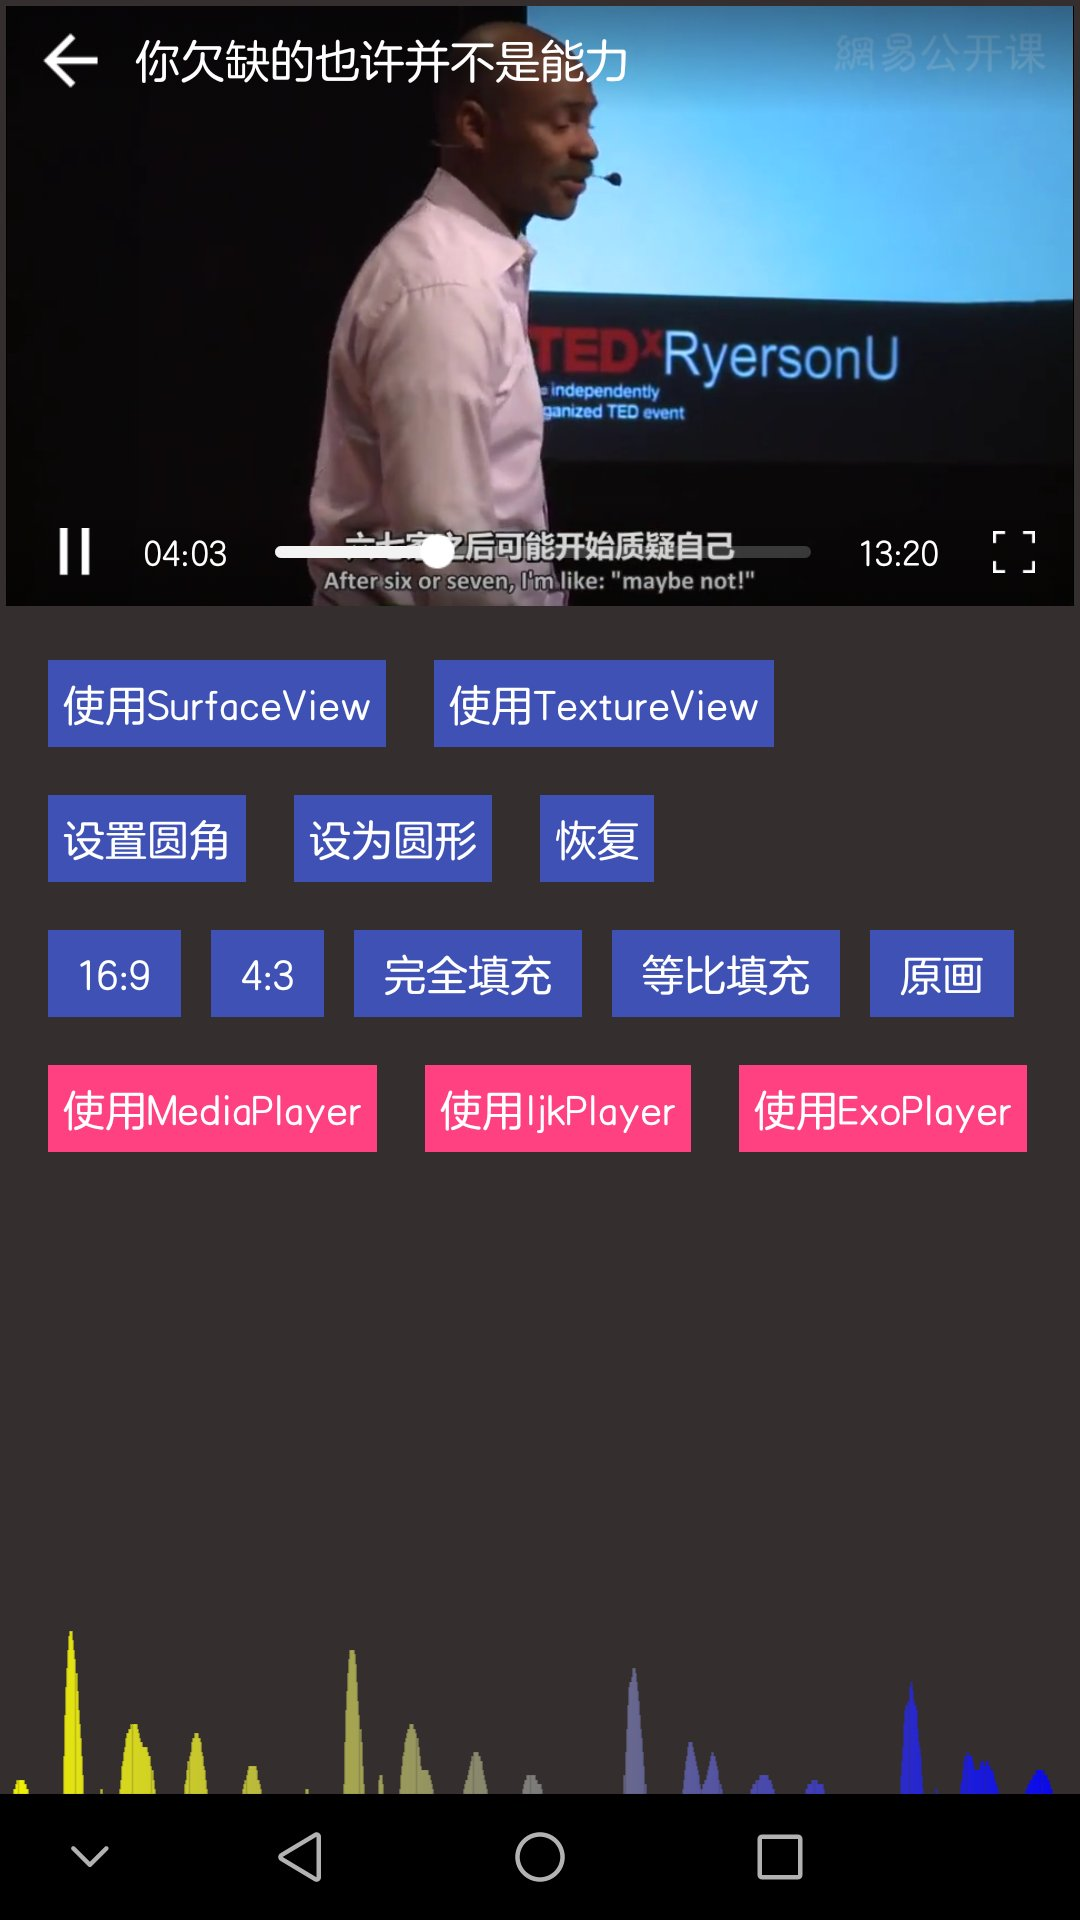
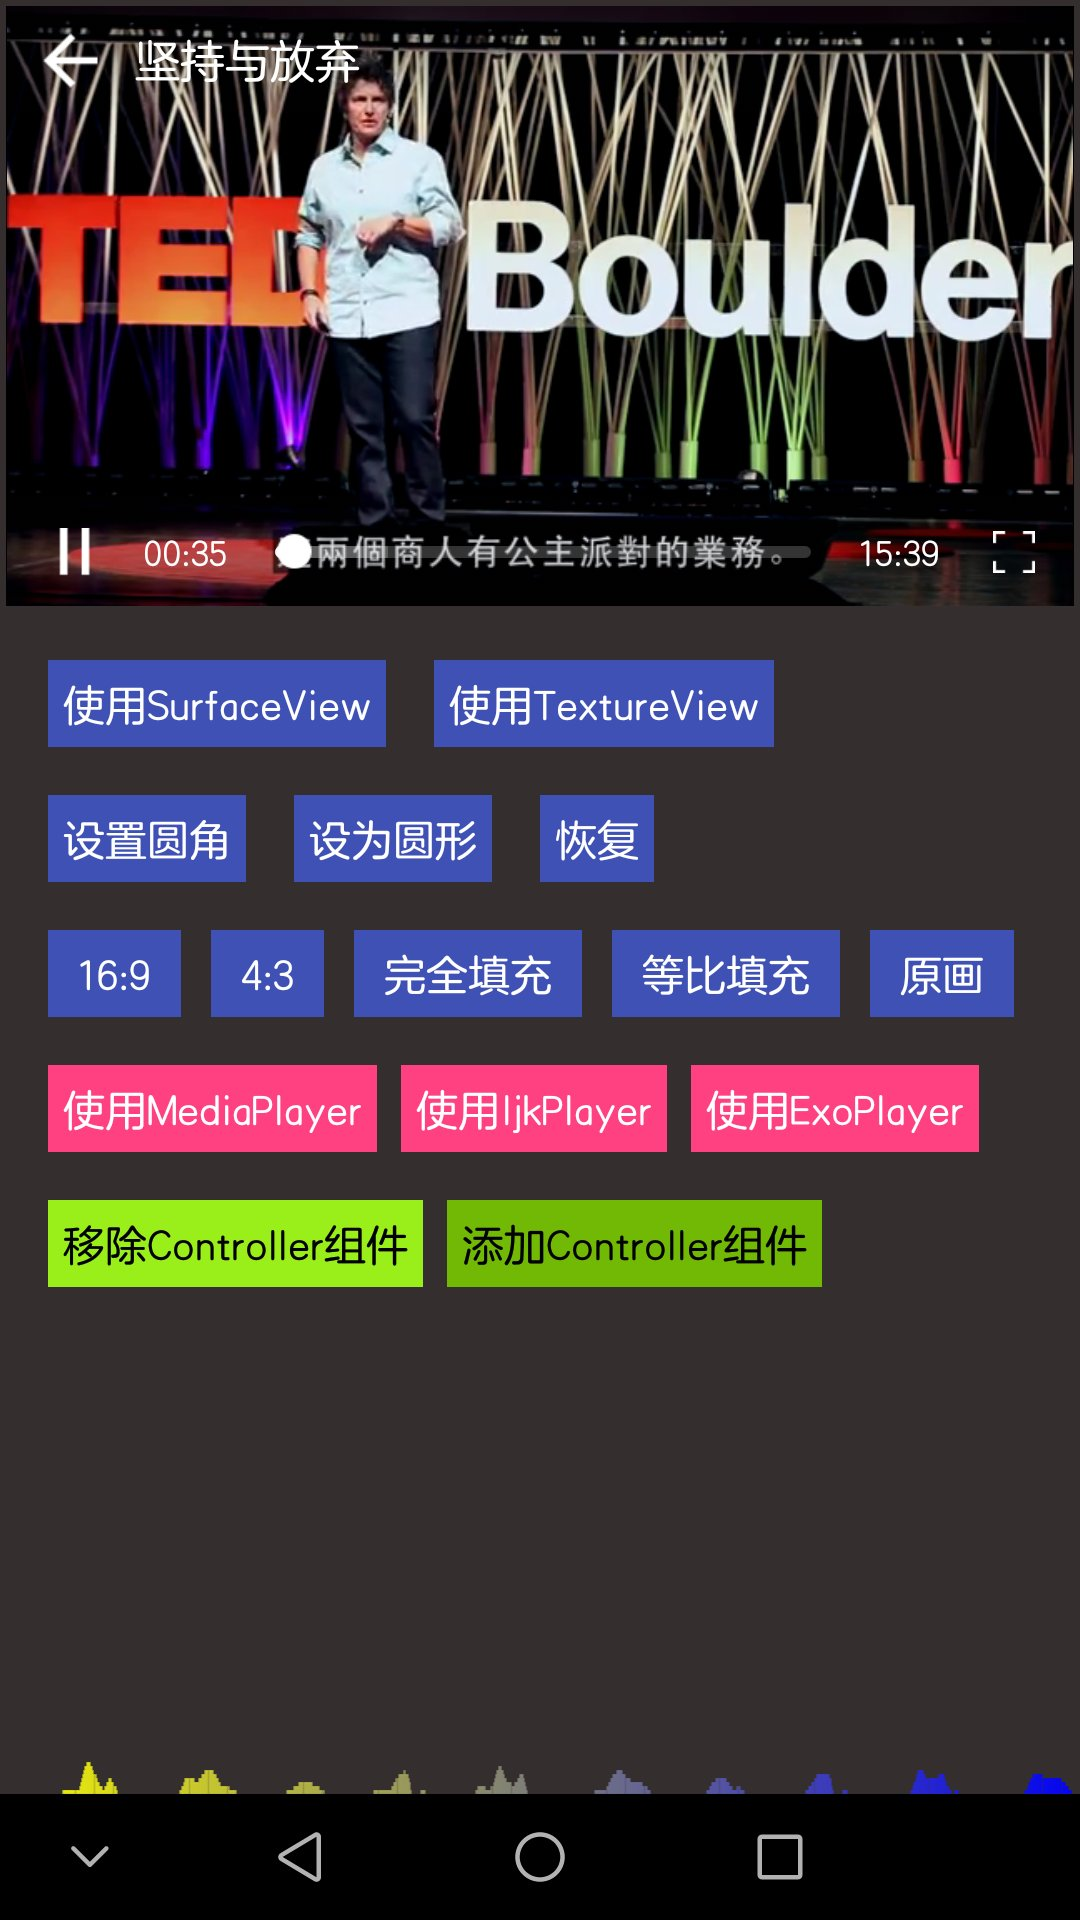
update demo
update demo

diff --git a/exoplayer/src/main/java/com/kk/taurus/exoplayer/ExoMediaPlayer.java b/exoplayer/src/main/java/com/kk/taurus/exoplayer/ExoMediaPlayer.java
@@ -66,10 +66,14 @@ public class ExoMediaPlayer extends BaseInternalPlayer {
 
     private int mVideoWidth, mVideoHeight;
 
+    private int mBufferPercentage;
+
     private int mStartPos = -1;
 
     private boolean isPreparing = true;
     private boolean isBuffering = false;
+    private boolean isPendingSeek = false;
+
     private final DefaultBandwidthMeter mBandwidthMeter;
 
     public ExoMediaPlayer(){
@@ -223,6 +227,9 @@ public class ExoMediaPlayer extends BaseInternalPlayer {
 
     @Override
     public void seekTo(int msc) {
+        if(isInPlaybackState()){
+            isPendingSeek = true;
+        }
         mInternalPlayer.seekTo(msc);
         Bundle bundle = BundlePool.obtain();
         bundle.putInt(EventKey.INT_DATA, msc);
@@ -252,6 +259,14 @@ public class ExoMediaPlayer extends BaseInternalPlayer {
         mInternalPlayer.release();
     }
 
+    private boolean isInPlaybackState(){
+        int state = getState();
+        return state!=STATE_END
+                && state!=STATE_ERROR
+                && state!=STATE_INITIALIZED
+                && state!=STATE_STOPPED;
+    }
+
     private SimpleExoPlayer.VideoListener mVideoListener = new SimpleExoPlayer.VideoListener() {
         @Override
         public void onVideoSizeChanged(int width, int height,
@@ -277,7 +292,7 @@ public class ExoMediaPlayer extends BaseInternalPlayer {
     private Player.EventListener mEventListener = new Player.EventListener() {
         @Override
         public void onTimelineChanged(Timeline timeline, Object manifest) {
-
+            PLog.d(TAG,"onTimelineChanged...");
         }
 
         @Override
@@ -287,11 +302,19 @@ public class ExoMediaPlayer extends BaseInternalPlayer {
 
         @Override
         public void onLoadingChanged(boolean isLoading) {
-            PLog.d(TAG,"onLoadingChanged : "+ isLoading);
+            mBufferPercentage = mInternalPlayer.getBufferedPercentage();
+            if(!isLoading){
+                Bundle bundle = BundlePool.obtain();
+                bundle.putInt(EventKey.INT_DATA, mBufferPercentage);
+                submitPlayerEvent(OnPlayerEventListener.PLAYER_EVENT_ON_BUFFERING_UPDATE,bundle);
+            }
+            PLog.d(TAG,"onLoadingChanged : "+ isLoading + ", bufferPercentage = " + mBufferPercentage);
         }
 
         @Override
         public void onPlayerStateChanged(boolean playWhenReady, int playbackState) {
+            PLog.d(TAG,"onPlayerStateChanged : playWhenReady = "+ playWhenReady
+                    + ", playbackState = " + playbackState);
 
             if(playWhenReady){
                 updateStatus(IPlayer.STATE_STARTED);
@@ -321,6 +344,15 @@ public class ExoMediaPlayer extends BaseInternalPlayer {
                     case Player.STATE_ENDED:
                         isBuffering = false;
                         submitPlayerEvent(OnPlayerEventListener.PLAYER_EVENT_ON_BUFFERING_END, null);
+                        break;
+                }
+            }
+
+            if(isPendingSeek){
+                switch (playbackState){
+                    case Player.STATE_READY:
+                        isPendingSeek = false;
+                        submitPlayerEvent(OnPlayerEventListener.PLAYER_EVENT_ON_SEEK_COMPLETE, null);
                         break;
                 }
             }
@@ -367,7 +399,7 @@ public class ExoMediaPlayer extends BaseInternalPlayer {
 
         @Override
         public void onPlaybackParametersChanged(PlaybackParameters playbackParameters) {
-
+            PLog.d(TAG,"onPlaybackParametersChanged : " + playbackParameters.toString());
         }
     };
 

diff --git a/app/src/main/java/com/kk/taurus/avplayer/ui/VideoViewActivity.java b/app/src/main/java/com/kk/taurus/avplayer/ui/VideoViewActivity.java
@@ -13,9 +13,11 @@ import android.view.ViewGroup;
 import android.view.Window;
 import android.view.WindowManager;
 import android.widget.RelativeLayout;
+import android.widget.Toast;
 
 import com.kk.taurus.avplayer.App;
 import com.kk.taurus.avplayer.R;
+import com.kk.taurus.avplayer.cover.ControllerCover;
 import com.kk.taurus.avplayer.play.DataInter;
 import com.kk.taurus.avplayer.play.MonitorDataProvider;
 import com.kk.taurus.avplayer.play.NetworkObserver;
@@ -26,6 +28,7 @@ import com.kk.taurus.playerbase.assist.OnVideoViewEventHandler;
 import com.kk.taurus.playerbase.config.PlayerConfig;
 import com.kk.taurus.playerbase.entity.DataSource;
 import com.kk.taurus.playerbase.event.OnPlayerEventListener;
+import com.kk.taurus.playerbase.receiver.IReceiver;
 import com.kk.taurus.playerbase.receiver.ReceiverGroup;
 import com.kk.taurus.playerbase.render.AspectRatio;
 import com.kk.taurus.playerbase.widget.BaseVideoView;
@@ -217,6 +220,19 @@ public class VideoViewActivity extends AppCompatActivity implements OnPlayerEven
         int curr = mVideoView.getCurrentPosition();
         if(mVideoView.switchDecoder(App.PLAN_ID_EXO)){
             replay(curr);
+        }
+    }
+
+    public void removeControllerCover(View view){
+        mReceiverGroup.removeReceiver(DataInter.ReceiverKey.KEY_CONTROLLER_COVER);
+        Toast.makeText(this, "已移除", Toast.LENGTH_SHORT).show();
+    }
+
+    public void addControllerCover(View view){
+        IReceiver receiver = mReceiverGroup.getReceiver(DataInter.ReceiverKey.KEY_CONTROLLER_COVER);
+        if(receiver==null){
+            mReceiverGroup.addReceiver(DataInter.ReceiverKey.KEY_CONTROLLER_COVER, new ControllerCover(this));
+            Toast.makeText(this, "已添加", Toast.LENGTH_SHORT).show();
         }
     }
 

diff --git a/app/src/main/java/com/kk/taurus/avplayer/cover/ErrorCover.java b/app/src/main/java/com/kk/taurus/avplayer/cover/ErrorCover.java
@@ -5,6 +5,7 @@ import android.os.Bundle;
 import android.view.View;
 import android.widget.TextView;
 
+import com.kk.taurus.avplayer.App;
 import com.kk.taurus.avplayer.R;
 import com.kk.taurus.avplayer.play.DataInter;
 import com.kk.taurus.avplayer.play.NetworkObserver;
@@ -81,6 +82,7 @@ public class ErrorCover extends BaseCover {
                 requestRetry(null);
                 break;
             case STATUS_MOBILE:
+                App.ignoreMobile = true;
                 setErrorState(false);
                 requestResume(null);
                 break;
@@ -126,6 +128,8 @@ public class ErrorCover extends BaseCover {
                     setErrorState(false);
                 }
             }else{
+                if(App.ignoreMobile)
+                    return;
                 mStatus = STATUS_MOBILE;
                 setErrorInfo("您正在使用移动网络！");
                 setHandleInfo("继续");

diff --git a/app/src/main/java/com/kk/taurus/avplayer/App.java b/app/src/main/java/com/kk/taurus/avplayer/App.java
@@ -27,6 +27,8 @@ public class App extends Application {
 
     private static App instance;
 
+    public static boolean ignoreMobile;
+
     public static App get(){
         return instance;
     }

diff --git a/README.md b/README.md
@@ -39,9 +39,9 @@ __-等功能……__<br>
 ```java
 ReceiverGroup receiverGroup = new ReceiverGroup();
 receiverGroup.addReceiver("loading_cover", new LoadingCover(context));
-receiverGroup.addReceiver("loading_cover", new ControllerCover(context));
-receiverGroup.addReceiver("loading_cover", new GestureCover(context));
-receiverGroup.addReceiver("loading_cover", new ErrorCover(context));
+receiverGroup.addReceiver("controller_cover", new ControllerCover(context));
+receiverGroup.addReceiver("gesture_cover", new GestureCover(context));
+receiverGroup.addReceiver("error_cover", new ErrorCover(context));
 
 mVideoView.setReceiverGroup(receiverGroup);
 mVideoView.setDataSource(new DataSource("http://..."))
